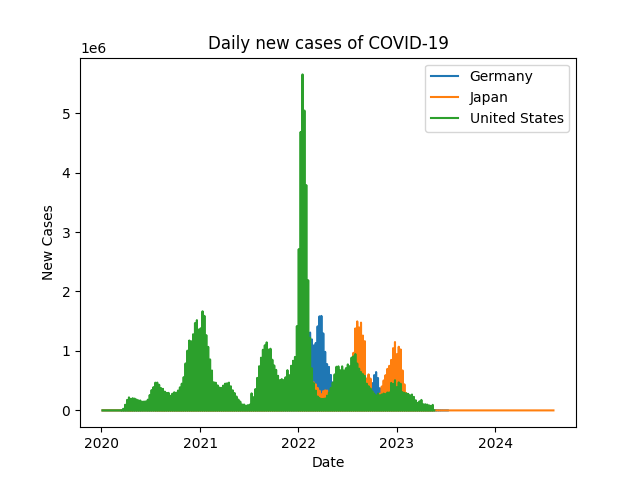
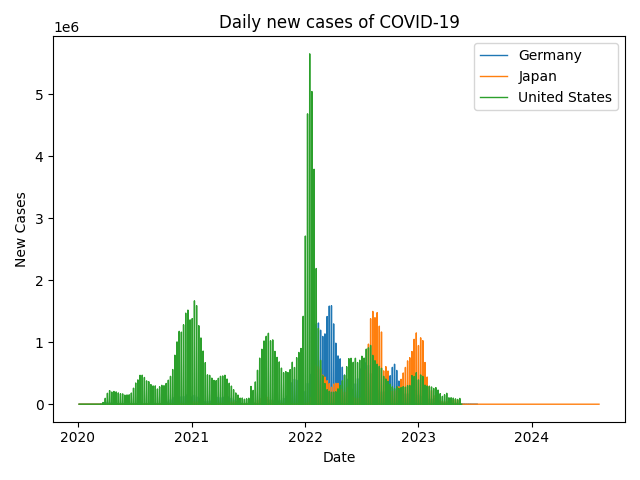
added weekly new cases chart

diff --git a/main.py b/main.py
@@ -54,18 +54,40 @@ pct_change = (avg_table["post_vaccination"] - avg_table["pre_vaccination"]) / av
 avg_table["pct_change"] = pct_change
 print(avg_table)
 
+# Daily new cases over time by country
 plt.figure()
 
 for country in df["location"].unique():
     country_df = df[df["location"] == country]
-    plt.plot(country_df["date"], country_df["new_cases"], label=country)
+    plt.plot(country_df["date"], country_df["new_cases"], label=country, linewidth=1)
 
 plt.title("Daily new cases of COVID-19")
 plt.xlabel("Date")
 plt.ylabel("New Cases")
 plt.legend()
 
+plt.tight_layout()
 plt.savefig("covid_data/daily_new_cases.png")
+plt.close()
+
+# Weekly cases over time by country
+plt.figure(figsize=(10, 6))
+
+for country in df["location"].unique():
+    country_df = df[df["location"] == country].copy()
+    country_df = country_df.sort_values("date")
+
+    country_df["weekly_cases"] = country_df["new_cases"].rolling(7).mean()
+
+    plt.plot(country_df["date"], country_df["weekly_cases"], label=country, linewidth=1)
+
+plt.title("Weekly new cases of COVID-19")
+plt.xlabel("Date")
+plt.ylabel("New Cases")
+plt.legend()
+
+plt.tight_layout()
+plt.savefig("covid_data/weekly_new_cases.png")
 plt.close()
 
 plt.figure(figsize=(8, 6))
